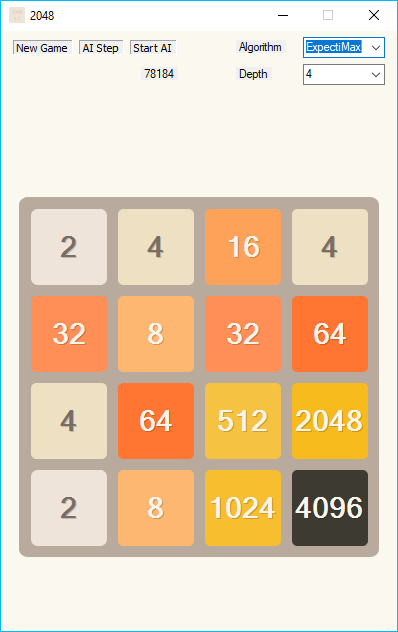
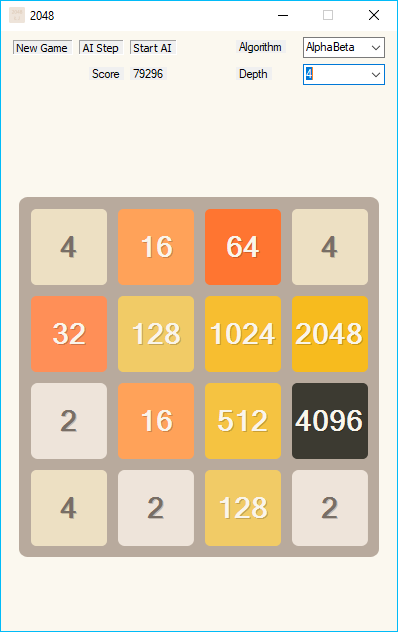
2048: Update app screenshot. Add score label.

diff --git a/2048/AI_2048/Main.Designer.cs b/2048/AI_2048/Main.Designer.cs
@@ -40,6 +40,7 @@
             this.cboDepth = new System.Windows.Forms.ComboBox();
             this.label2 = new System.Windows.Forms.Label();
             this.lblScore = new System.Windows.Forms.Label();
+            this.label3 = new System.Windows.Forms.Label();
             this.SuspendLayout();
             // 
             // timer1
@@ -139,17 +140,27 @@
             // lblScore
             // 
             this.lblScore.AutoSize = true;
-            this.lblScore.Location = new System.Drawing.Point(140, 36);
+            this.lblScore.Location = new System.Drawing.Point(129, 36);
             this.lblScore.Name = "lblScore";
             this.lblScore.Size = new System.Drawing.Size(35, 13);
             this.lblScore.TabIndex = 3;
             this.lblScore.Text = "Score";
+            // 
+            // label3
+            // 
+            this.label3.AutoSize = true;
+            this.label3.Location = new System.Drawing.Point(88, 36);
+            this.label3.Name = "label3";
+            this.label3.Size = new System.Drawing.Size(35, 13);
+            this.label3.TabIndex = 4;
+            this.label3.Text = "Score";
             // 
             // Main
             // 
             this.AutoScaleDimensions = new System.Drawing.SizeF(6F, 13F);
             this.AutoScaleMode = System.Windows.Forms.AutoScaleMode.Font;
             this.ClientSize = new System.Drawing.Size(396, 600);
+            this.Controls.Add(this.label3);
             this.Controls.Add(this.lblScore);
             this.Controls.Add(this.label2);
             this.Controls.Add(this.label1);
@@ -181,6 +192,7 @@
         private System.Windows.Forms.ComboBox cboDepth;
         private System.Windows.Forms.Label label2;
         private System.Windows.Forms.Label lblScore;
+        private System.Windows.Forms.Label label3;
     }
 }
 
